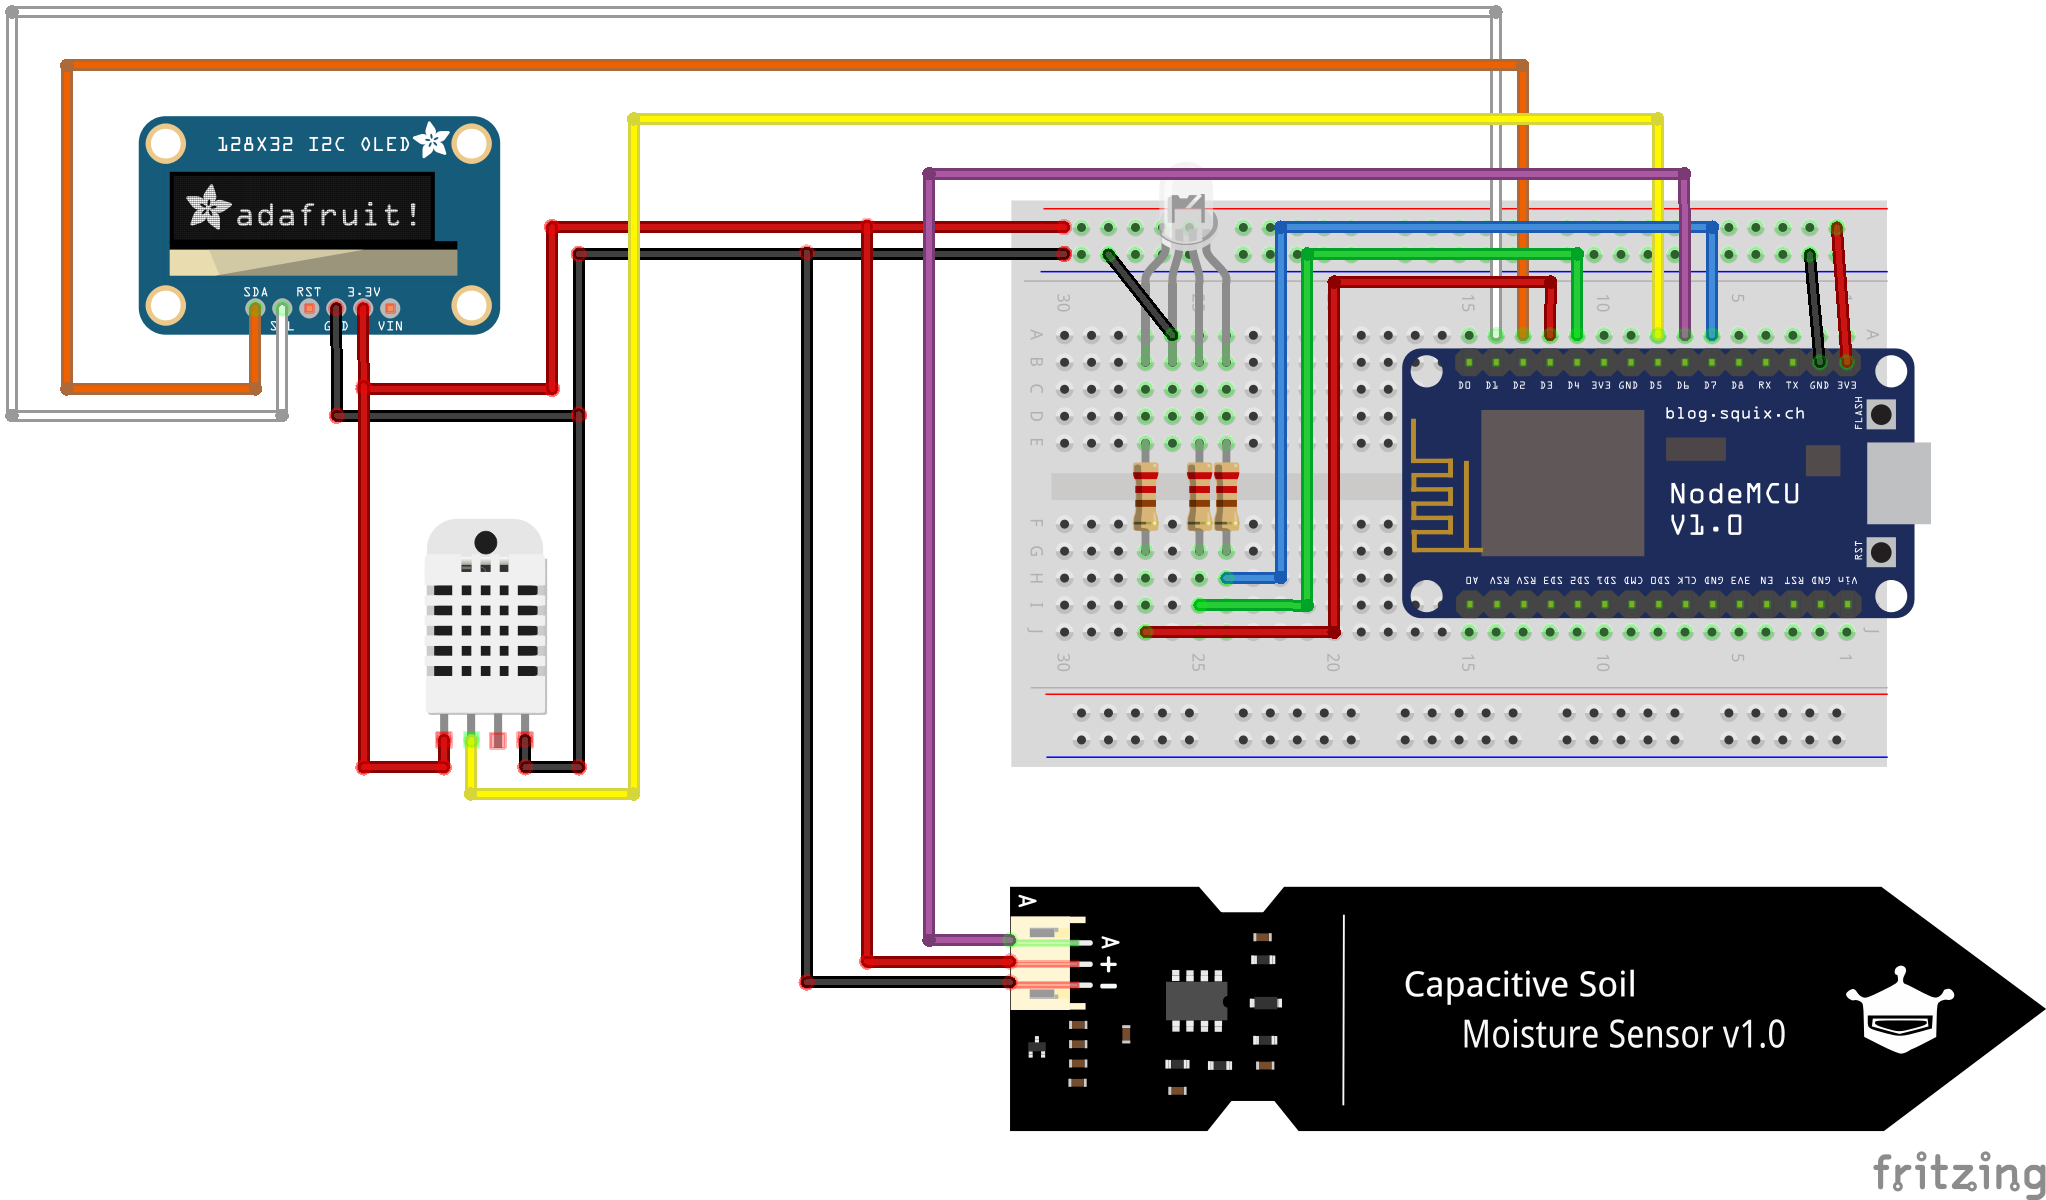
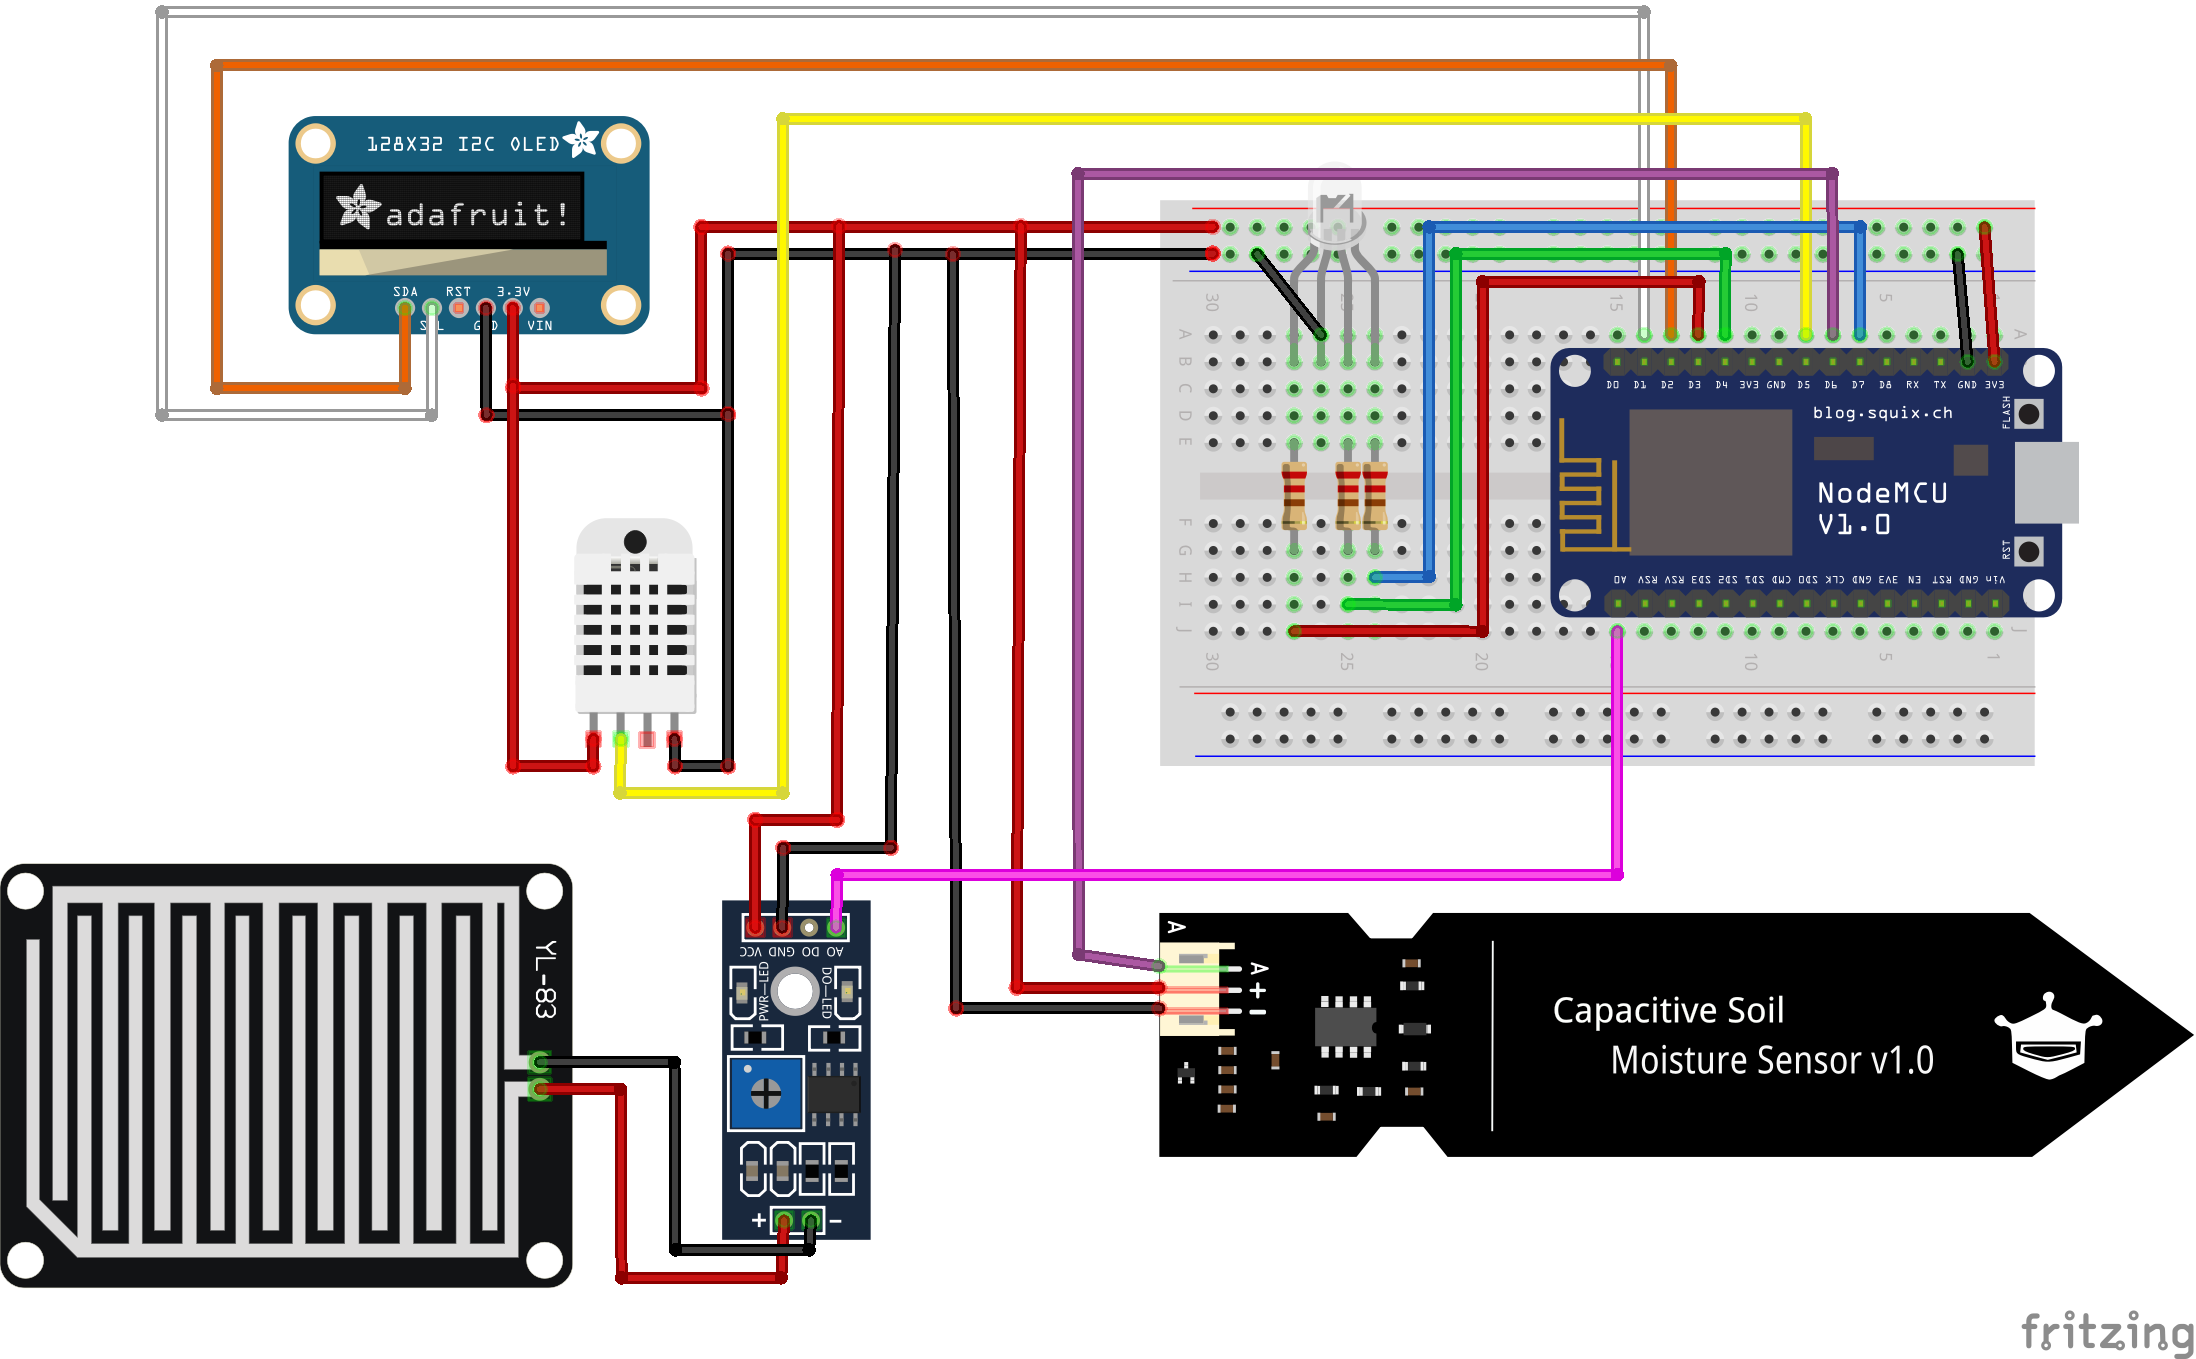
Add Raindrop Sensor support

diff --git a/src/main.cpp b/src/main.cpp
@@ -4,6 +4,7 @@
 #include "Outputs/RGBLed.h"
 #include "Sensors/AtmosphereSensor.h"
 #include "Sensors/SoilSensor.h"
+#include "Sensors/RaindropSensor.h"
 #include "Services/RemoteStorageService.h"
 #include "Services/WifiService.h"
 
@@ -12,6 +13,7 @@
 #define BLUE_LED_PIN D7 // digital
 #define ATMOSPHERE_SENSOR_PIN D5 // analog
 #define SOIL_SENSOR_PIN D6 // analog
+#define RAINDROP_SENSOR_PIN A0 // analog
 
 // calibrate you soil sensor when its dry and submerged in water
 #define WET_SOIL_MOISTURE_CAPACITANCE 1265
@@ -21,6 +23,7 @@ AtmosphereSensor *atmosphereSensor;
 Display *display;
 RGBLed *led;
 SoilSensor *soilSensor;
+RaindropSensor *raindropSensor;
 RemoteStorageService *remoteStorageService;
 WifiService *wifiService;
 
@@ -33,6 +36,7 @@ void setup() {
   led = new RGBLed(RED_LED_PIN, GREEN_LED_PIN, BLUE_LED_PIN);
   atmosphereSensor = new AtmosphereSensor(ATMOSPHERE_SENSOR_PIN);
   soilSensor = new SoilSensor(SOIL_SENSOR_PIN, WET_SOIL_MOISTURE_CAPACITANCE, DRY_SOIL_MOISTURE_CAPACITANCE);
+  raindropSensor = new RaindropSensor(RAINDROP_SENSOR_PIN);
 
   led->red();
 
@@ -52,9 +56,10 @@ void loop() {
   int moisture = soilSensor->moisture();
   float temperature = atmosphereSensor->temperature();
   float humidity = atmosphereSensor->humidity();
+  bool raining = raindropSensor->raining();
 
-  display->update(moisture, temperature, humidity);
-  remoteStorageService->saveReading("TODO", moisture, temperature, humidity);
+  display->update(moisture, temperature, humidity, raining);
+  // remoteStorageService->saveReading("TODO", moisture, temperature, humidity, raining);
 
   delay(5000);
 }

diff --git a/src/Services/RemoteStorageService.cpp b/src/Services/RemoteStorageService.cpp
@@ -22,7 +22,7 @@ RemoteStorageService::RemoteStorageService(char *domain) {
   }
 }
 
-bool RemoteStorageService::saveReading(char *apiKey, int moisture, float temperature, float humidity) {
+bool RemoteStorageService::saveReading(char *apiKey, int moisture, float temperature, float humidity, bool raining) {
   char buffer[32];
 
   Serial.println(F("Save Reading: "));
@@ -31,6 +31,8 @@ bool RemoteStorageService::saveReading(char *apiKey, int moisture, float tempera
   sprintf(buffer, "- Temp: %0.1f C", temperature);
   Serial.println(buffer);
   sprintf(buffer, "- Humidity: %0.1f%%", humidity);
+  Serial.println(buffer);
+  sprintf(buffer, "- Raining: %s", (raining ? "yes" : "no"));
   Serial.println(buffer);
 
   return false;

diff --git a/src/Outputs/Display.cpp b/src/Outputs/Display.cpp
@@ -49,7 +49,7 @@ void Display::splash(bool connecting, bool pinging)
   _display->display();
 }
 
-void Display::update(int soilMoisture, float temperature, float humidity) {
+void Display::update(int soilMoisture, float temperature, float humidity, bool raining) {
   char buffer[32];
 
   _display->clearDisplay();
@@ -66,6 +66,10 @@ void Display::update(int soilMoisture, float temperature, float humidity) {
 
   sprintf(buffer, "Humidity: %0.1f%%", humidity);
   _display->setCursor(0, 16);
+  _display->println(buffer);
+
+  sprintf(buffer, "Raining: %s", (raining ? "yes" : "no"));
+  _display->setCursor(0, 24);
   _display->println(buffer);
 
   _display->display();

diff --git a/src/Services/RemoteStorageService.h b/src/Services/RemoteStorageService.h
@@ -8,7 +8,7 @@ class RemoteStorageService
   public:
     RemoteStorageService(char *domain);
     bool ping();
-    bool saveReading(char *apiKey, int moisture, float temperature, float humidity);
+    bool saveReading(char *apiKey, int moisture, float temperature, float humidity, bool raining);
   private:
     char *_domain;
     bool _ssl;

diff --git a/src/Outputs/Display.h b/src/Outputs/Display.h
@@ -8,7 +8,7 @@ class Display
   public:
     Display();
     void splash(bool connecting, bool pinging);
-    void update(int soilMoisture, float temperature, float humidity);
+    void update(int soilMoisture, float temperature, float humidity, bool raining);
 };
 
 #endif

diff --git a/src/Sensors/RaindropSensor.cpp b/src/Sensors/RaindropSensor.cpp
@@ -1,0 +1,11 @@
+#include <Arduino.h>
+#include "RaindropSensor.h"
+
+RaindropSensor::RaindropSensor(int pin) {
+  pinMode(pin, INPUT);
+  _pin = pin;
+}
+
+bool RaindropSensor::raining() {
+  return analogRead(_pin) < 1000;
+}

diff --git a/src/Sensors/RaindropSensor.h b/src/Sensors/RaindropSensor.h
@@ -1,0 +1,15 @@
+#ifndef RaindropSensor_h
+#define RaindropSensor_h
+
+#include <Arduino.h>
+
+class RaindropSensor
+{
+  public:
+    RaindropSensor(int pin);
+    bool raining();
+  private:
+    int _pin;
+};
+
+#endif
